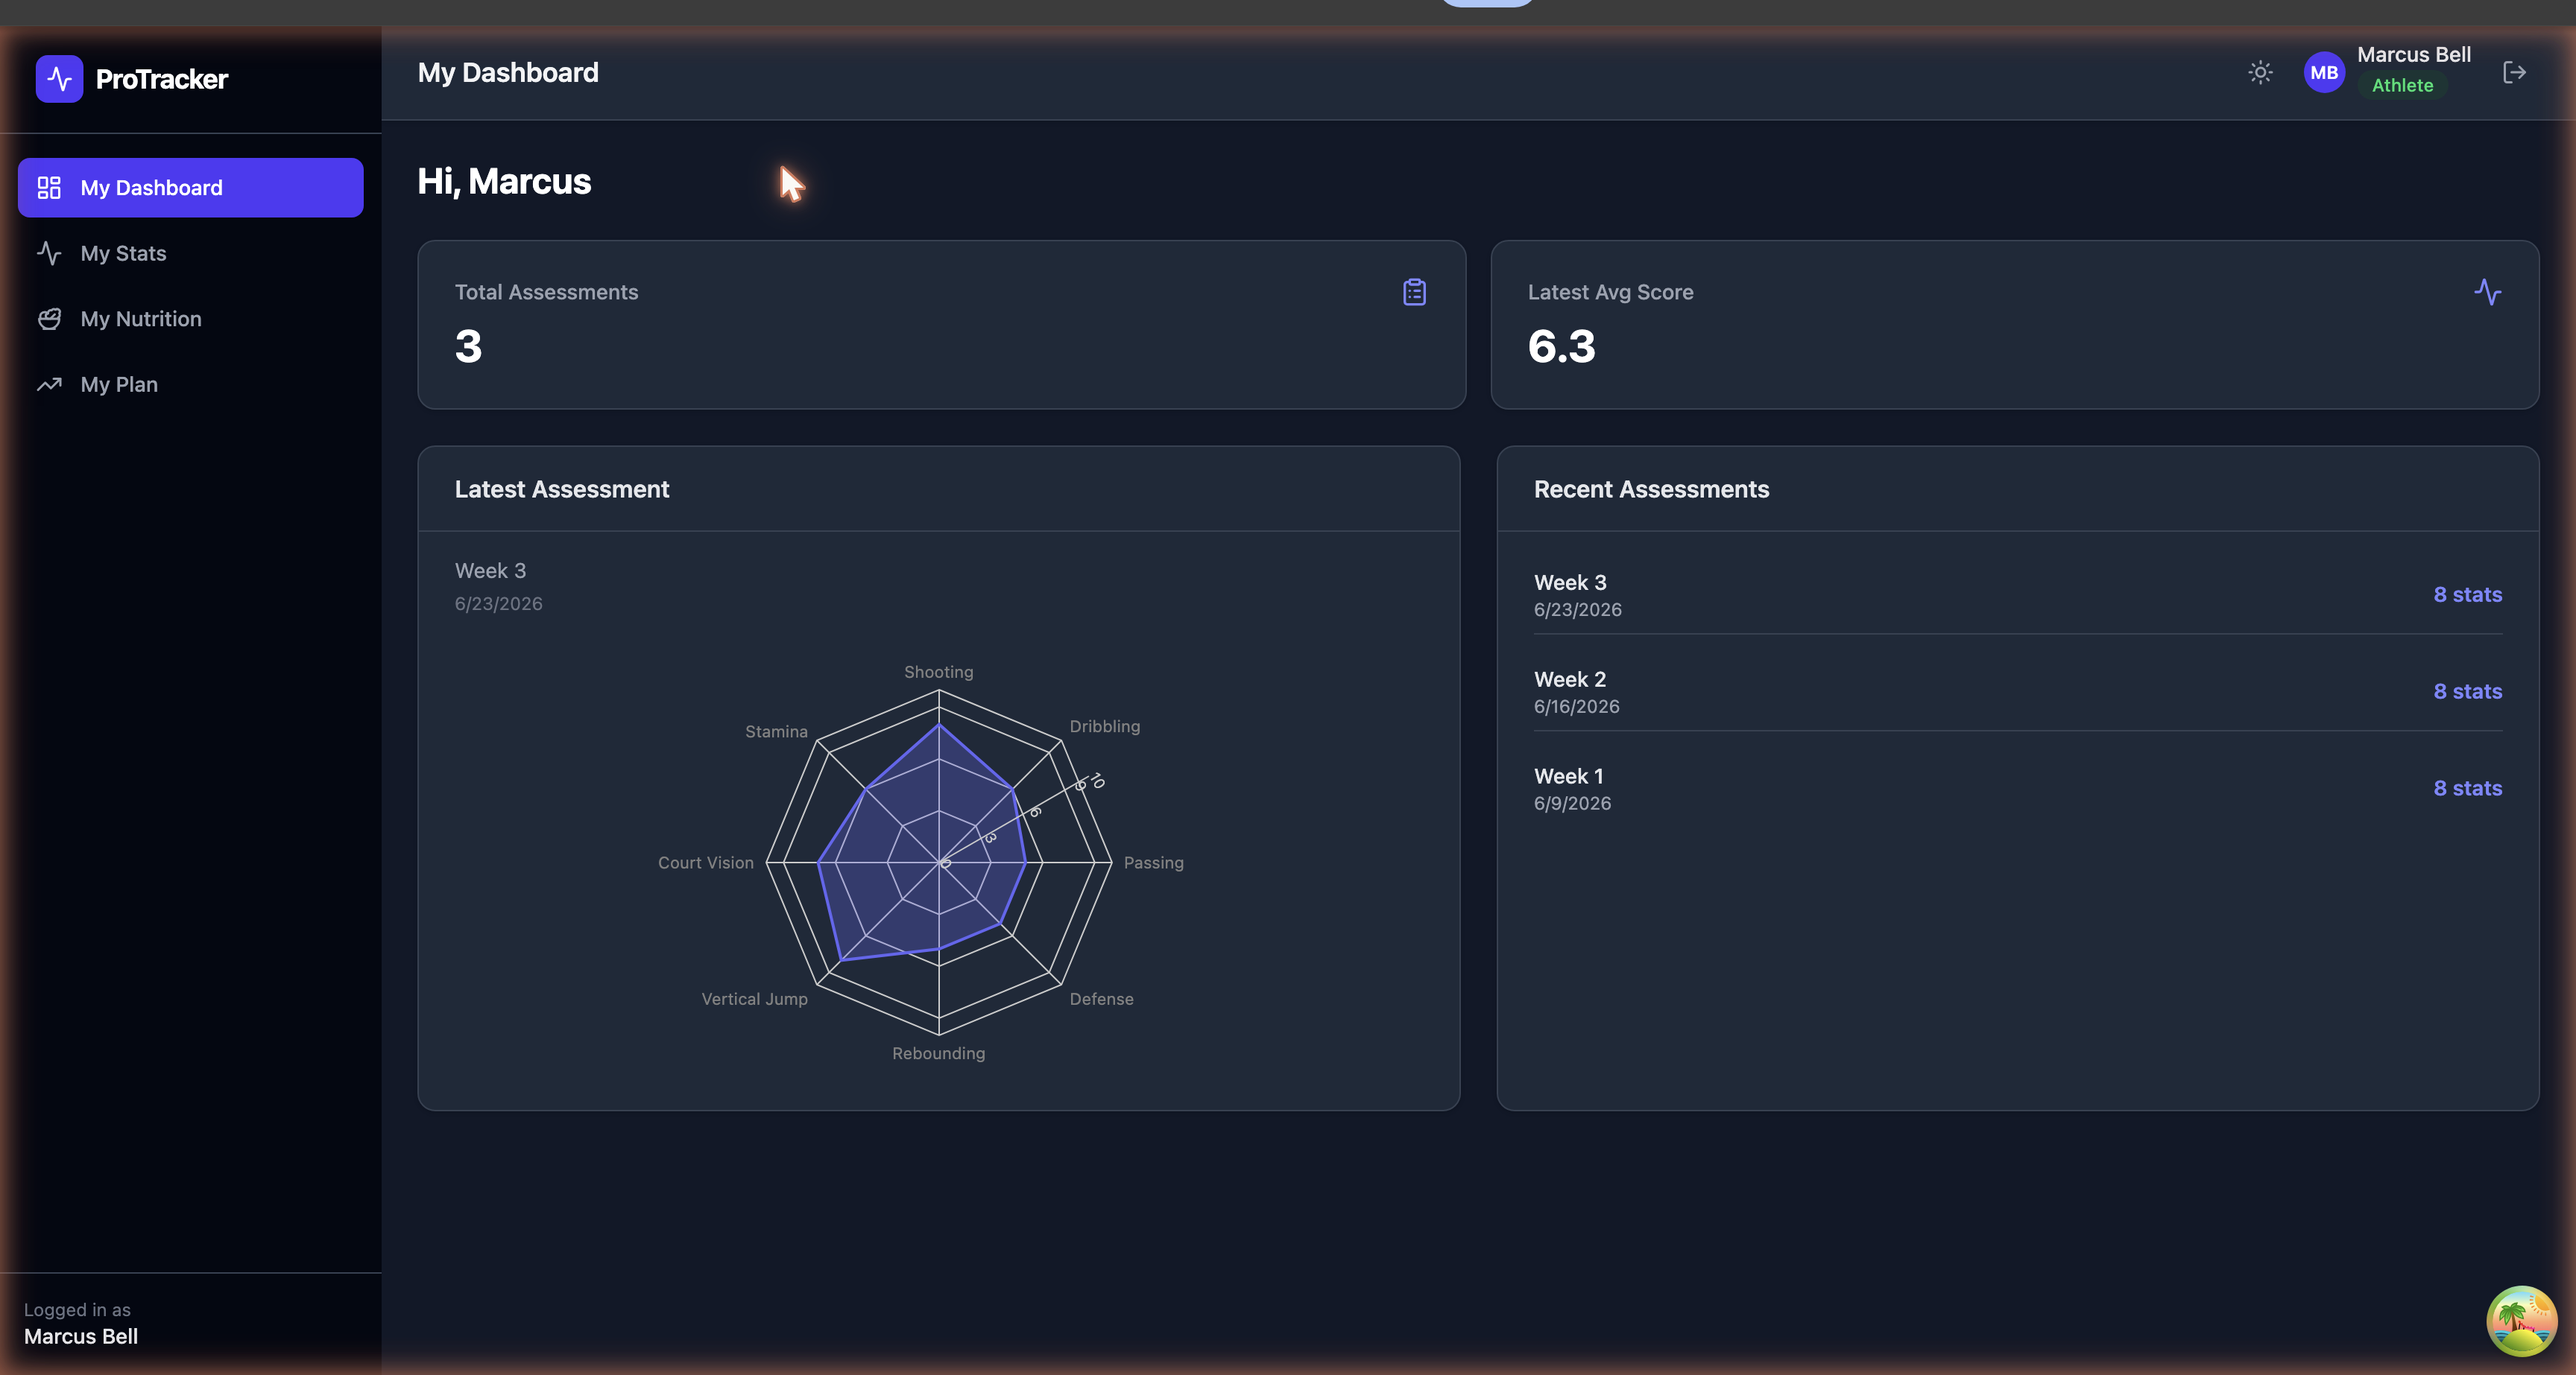
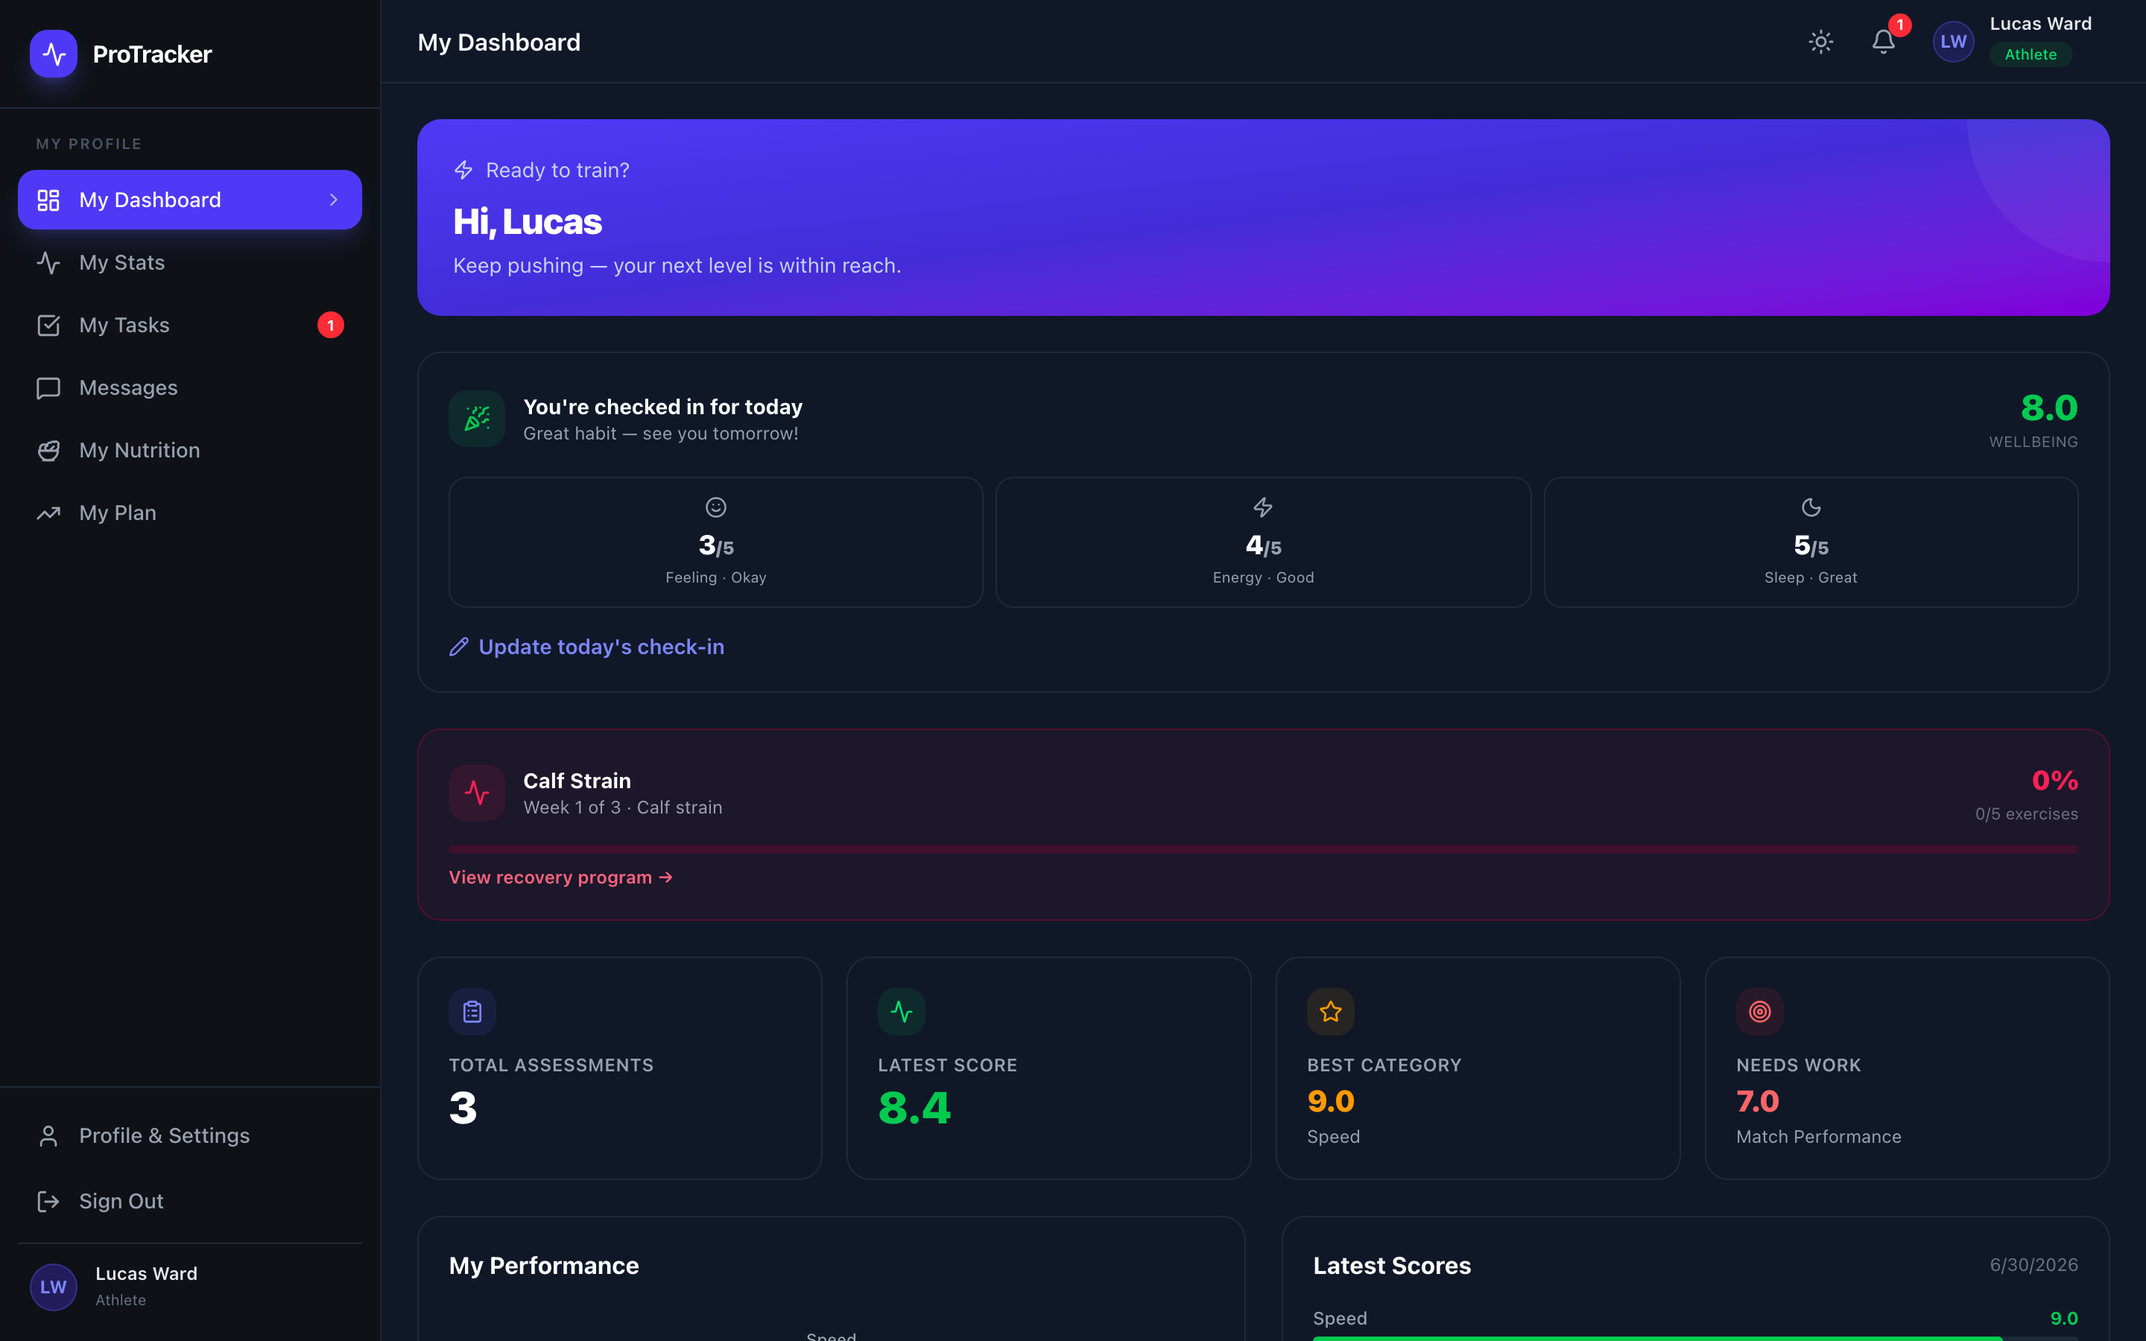
docs: add 24 full-page live-app screenshots + README gallery
Capture every major coach and athlete page from the live production app
(protracker-iota.vercel.app) as high-quality full-page dark-mode screenshots
(1440px, 2x DPI, via headless Chromium) and organise them in the README under
clear "Coach Experience" and "Athlete Experience" 2-column galleries with
captions. Replaces the older ad-hoc screenshots.

Covers: login, coach dashboard, players list, player profile (overview,
assessments, injuries, tasks, wellbeing, matches, notes, nutrition), teams,
team detail, player/team reports, task analytics, messaging, recovery program,
and the athlete dashboard, stats, nutrition, tasks, wellbeing check-in flow &
recovery program.

diff --git a/README.md b/README.md
@@ -123,22 +123,69 @@ ProTracker is a full-stack platform where coaches manage multi-sport teams and a
 
 ## 📸 Screenshots
 
+### 👔 Coach Experience
+
 | Sign In — "Stadium Lights" | Coach Dashboard |
-|---|---|
+|:--:|:--:|
 | ![Sign In](docs/screenshots/login.png) | ![Coach Dashboard](docs/screenshots/coach-dashboard.png) |
-| _Split-screen auth with animated backdrop_ | _Teams, overdue tasks, injuries & team wellbeing_ |
+| _Split-screen auth with animated backdrop_ | _Stats, active injuries & team wellbeing card_ |
 
 | Players List | Player Profile |
-|---|---|
-| ![Players](docs/screenshots/players.png) | ![Player Profile](docs/screenshots/player-detail.png) |
-| _Roster with injury indicators & unit toggles_ | _Assessments + tabs: injuries, matches, tasks, wellbeing_ |
+|:--:|:--:|
+| ![Players List](docs/screenshots/players-list.png) | ![Player Profile](docs/screenshots/player-profile-overview.png) |
+| _Roster with injury indicators & unit toggles_ | _Overview with radar chart & quick stats_ |
 
-| Athlete Dashboard | AI Nutrition Plan |
-|---|---|
-| ![Athlete Dashboard](docs/screenshots/athlete-dashboard.png) | ![Nutrition Plan](docs/screenshots/plan-details.png) |
-| _Radar chart, wellbeing check-in, tasks & recovery_ | _7-day AI meal plan with per-meal macros_ |
+| Assessments — History | Injuries & Recovery |
+|:--:|:--:|
+| ![Assessments](docs/screenshots/player-profile-assessments.png) | ![Injuries](docs/screenshots/player-profile-injuries.png) |
+| _Trend, best/weakest & per-category score bars_ | _Injury tracking with recovery status_ |
 
-> 🔎 Recovery programs, coach ↔ athlete messaging, and task analytics are best explored in the **[live demo](https://protracker-iota.vercel.app)**.
+| Assigned Tasks | Wellbeing Trend |
+|:--:|:--:|
+| ![Tasks](docs/screenshots/player-profile-tasks.png) | ![Wellbeing](docs/screenshots/player-profile-wellbeing.png) |
+| _Per-player task list with priorities_ | _30-day wellbeing trend & pain reports_ |
+
+| Match Results | Coach Notes |
+|:--:|:--:|
+| ![Matches](docs/screenshots/player-profile-matches.png) | ![Notes](docs/screenshots/player-profile-notes.png) |
+| _Sport-aware match ratings & stats_ | _Timestamped notes (private or shared)_ |
+
+| Weekly Nutrition Plan | Recovery Program |
+|:--:|:--:|
+| ![Nutrition](docs/screenshots/player-profile-nutrition.png) | ![Recovery](docs/screenshots/recovery-program.png) |
+| _7-day AI meal plan with per-meal macros_ | _Template/AI recovery plan with milestones_ |
+
+| Teams | Team Detail |
+|:--:|:--:|
+| ![Teams](docs/screenshots/teams-page.png) | ![Team Detail](docs/screenshots/team-detail.png) |
+| _Sport-gradient team cards with key stats_ | _Roster grid, radar & assessment periods_ |
+
+| Player Report | Team Report |
+|:--:|:--:|
+| ![Player Report](docs/screenshots/player-report.png) | ![Team Report](docs/screenshots/team-report.png) |
+| _Trends, radar & AI performance insights_ | _Player comparison, strengths & top performers_ |
+
+| Task Analytics | Messaging |
+|:--:|:--:|
+| ![Task Analytics](docs/screenshots/tasks-analytics.png) | ![Messages](docs/screenshots/messages.png) |
+| _Completion rate, callouts & weekly trend_ | _Direct coach ↔ athlete conversations_ |
+
+### 🏃 Athlete Experience
+
+| Athlete Dashboard | Daily Wellbeing Check-in |
+|:--:|:--:|
+| ![Athlete Dashboard](docs/screenshots/athlete-dashboard.png) | ![Wellbeing Check-in](docs/screenshots/wellbeing-checkin.png) |
+| _Radar, wellbeing, recovery, tasks & feedback_ | _Step-by-step feeling / energy / sleep + pain_ |
+
+| My Stats | My Nutrition |
+|:--:|:--:|
+| ![My Stats](docs/screenshots/athlete-stats.png) | ![My Nutrition](docs/screenshots/athlete-nutrition.png) |
+| _Assessment timeline & progress trends_ | _Personal 7-day AI meal plan_ |
+
+| My Tasks | My Recovery Program |
+|:--:|:--:|
+| ![My Tasks](docs/screenshots/athlete-tasks.png) | ![My Recovery](docs/screenshots/athlete-recovery.png) |
+| _Progress ring with action-required sections_ | _Week-by-week rehab with exercise completion_ |
 
 ## 💻 Getting Started
 
